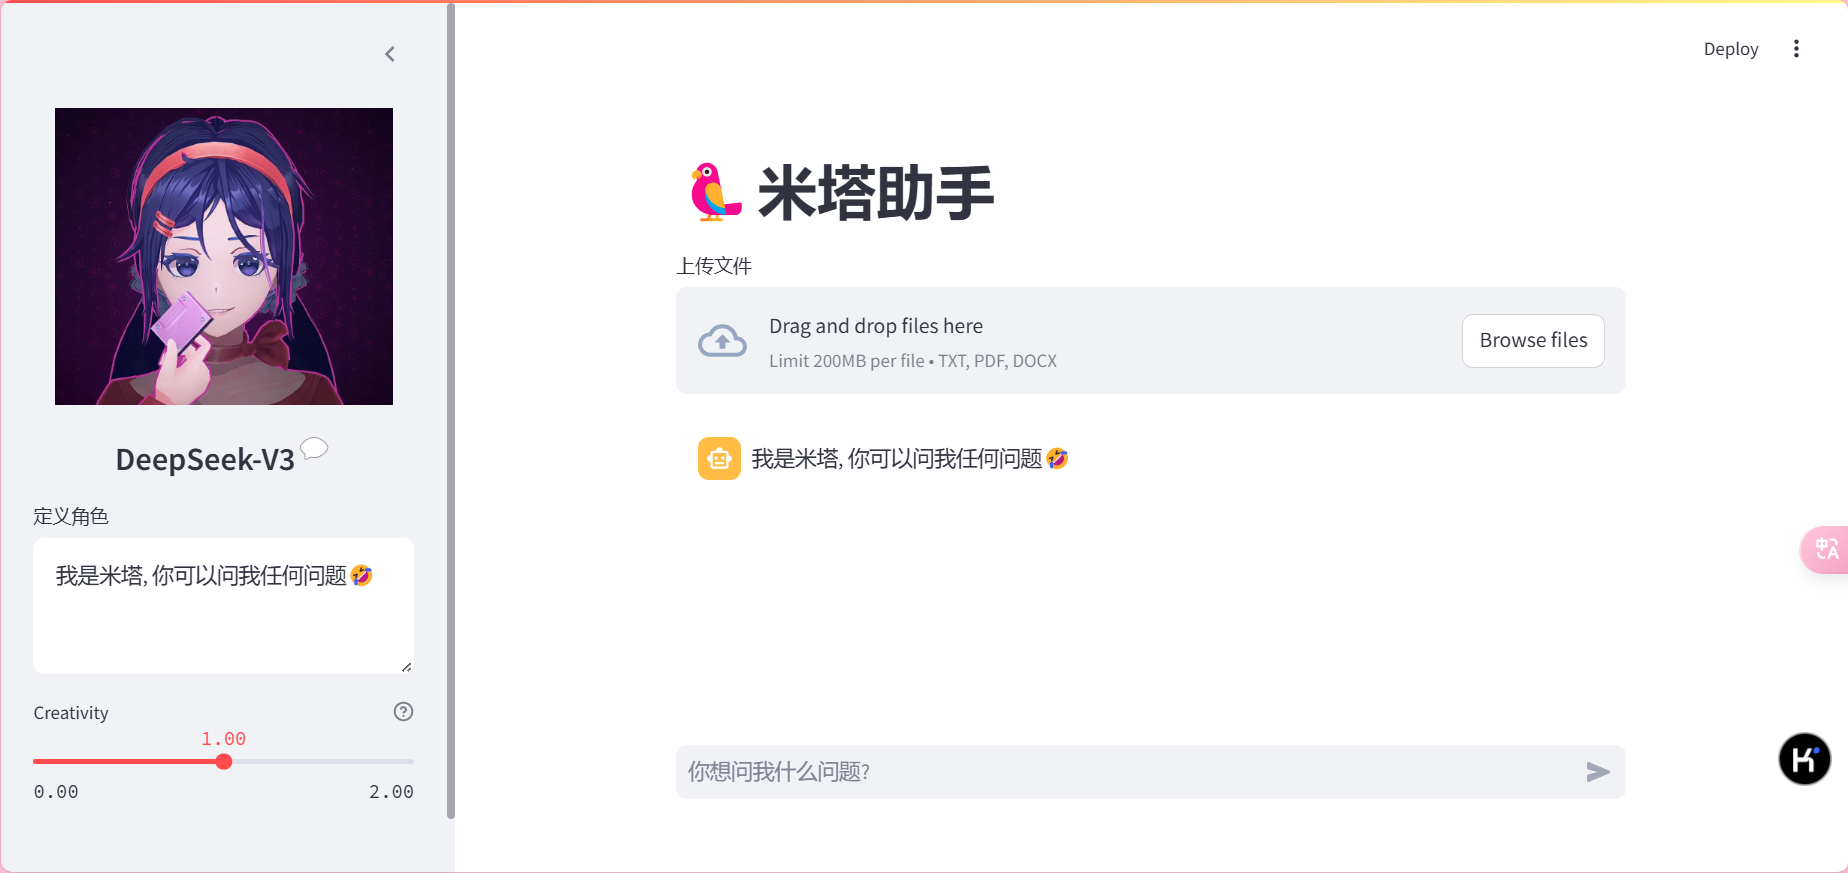
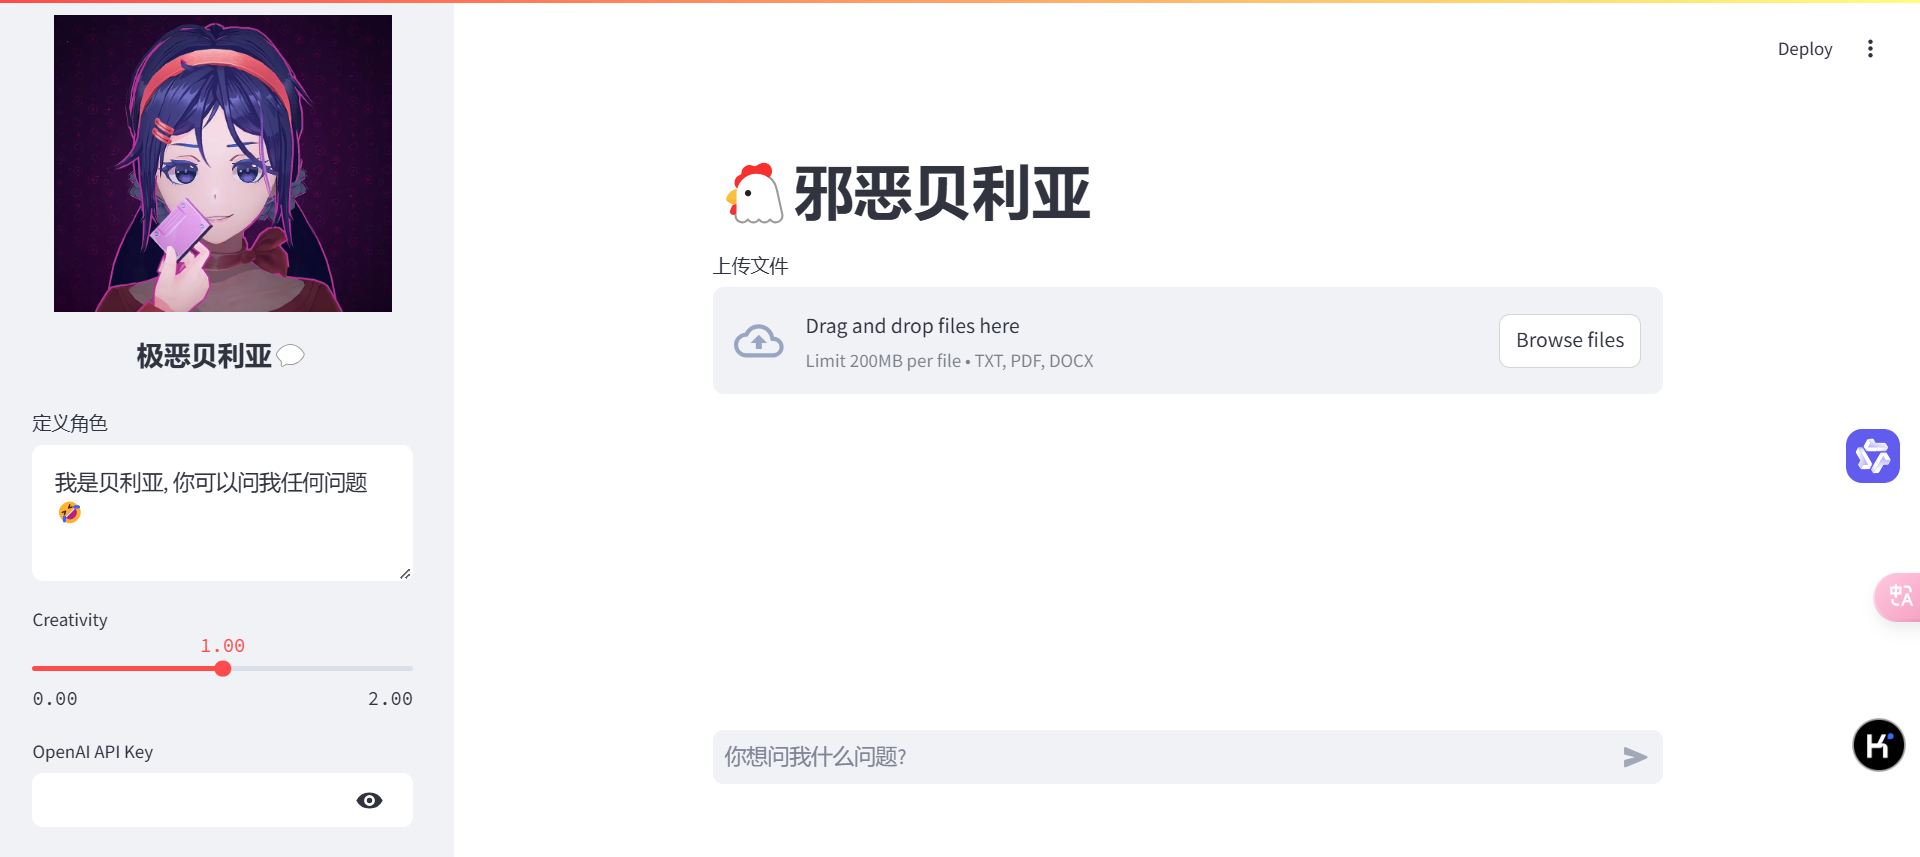
添加 .gitignore 文件，删除不再使用的配置文件和测试文件，更新主应用程序以支持 API 密钥和基础 URL 的输入

diff --git a/DeepSeek/app.py b/DeepSeek/app.py
@@ -1,29 +1,26 @@
 # app.py
 import streamlit as st
-from config_reader import read_config
 from file_processor import process_file
 from chat_stream import chat_stream
 from chat_history_manager import add_message_to_history
 from openai import OpenAI
-# 读取配置文件
-config = read_config()
-api_key = config['openai']['api_key']
-base_url = config['openai']['base_url']
 
-# 侧边栏 UI 配置
+
 with st.sidebar:
-    st.markdown(f""" 
+    st.markdown(""" 
     <center>
     <img src="https://i.ibb.co/MgBss0Q/1.webp" alt="1" border="0" width="250" height="220">
-    <h1>DeepSeek-V3<sup>💬</sup></h1>
+    <h1><sup>极恶贝利亚💬</sup></h1>
     </center>""", unsafe_allow_html=True)
-    
-    system_message = st.text_area("定义角色", value="我是米塔, 你可以问我任何问题🤣")
-    temperature = st.slider("Creativity", min_value=0.0, max_value=2.0, value=1.0, step=0.1,
-                            help="The higher the value, the more creative the text will be.")
+
+    system_message = st.text_area("定义角色", value="我是贝利亚, 你可以问我任何问题🤣")
+    temperature = st.slider("Creativity", min_value=0.0, max_value=2.0, value=1.0, step=0.1)
+    api_key = st.sidebar.text_input('OpenAI API Key', type='password')
+    base_url = st.sidebar.text_input('OpenAI Base URL')
 
 # 主界面设置
-st.title("🦜米塔助手")
+st.title("🐔邪恶贝利亚")
+
 
 # 上传文件
 uploaded_files = st.file_uploader("上传文件", type=["txt", "pdf", "docx"], accept_multiple_files=True)
@@ -39,10 +36,7 @@ for file in uploaded_files:
 
 # 使用 session_state 初始化聊天记录
 if "chat_history" not in st.session_state:
-    st.session_state.chat_history = [{
-        "role": "assistant",
-        "content": "我是米塔, 你可以问我任何问题🤣"
-    }]
+    st.session_state.chat_history = []
 
 # 显示聊天记录
 for message in st.session_state.chat_history:

diff --git a/DeepSeek/chat_stream.py b/DeepSeek/chat_stream.py
@@ -1,5 +1,4 @@
 # chat_stream.py
-from openai import OpenAI
 from chat_history_manager import trim_chat_history
 
 def chat_stream(client, query, system_message=None, temperature=0.5, context=None, chat_history=None):

diff --git a/README.md b/README.md
@@ -1,22 +1,19 @@
 # 简易LLM助手项目
 
-这是一个用于聊天应用和文件处理的LLM简易项目。首次使用前务必填好config.ini文件。
+这是一个用于聊天应用和文件处理的LLM简易项目。
 
 **项目文件详细描述:**
 
-- `DeepSeek/file_processor.py`: **文件处理模块**，负责处理上传的 txt, pdf, docx 文件，提取文件内容。
 - `DeepSeek/app.py`: **主应用程序文件**，使用 Streamlit 框架构建用户界面，处理用户输入和显示聊天记录。
+- `DeepSeek/file_processor.py`: **文件处理模块**，负责处理上传的 txt, pdf, docx 文件，提取文件内容。
 - `DeepSeek/chat_history_manager.py`: **聊天历史管理模块**，负责管理聊天历史记录，添加新的消息到历史记录中。
 - `DeepSeek/chat_stream.py`: **聊天流处理模块**，负责处理与 OpenAI API 的交互，获取聊天机器人的流式响应。
-- `DeepSeek/config_reader.py`: **配置文件读取模块**，负责读取 `config.ini` 配置文件中的 API 密钥和基础 URL 等配置信息。
-- `DeepSeek/config.ini`: **配置文件**，用于配置 OpenAI格式 API 的密钥 (`api_key`) 和基础 URL (`base_url`)。
-- `DeepSeek/test.ipynb`: **测试用的 Jupyter Notebook**，包含用于测试和实验的代码。
-- `DeepSeek/token_counter.py`: **Token 计数模块**，可能用于计算文本中的 token 数量，但代码中没有直接使用，可能是预留模块。
-- `DeepSeek/imgs/`: **图片资源目录**，包含应用界面中使用的图片资源，例如 `1.webp` 和 `2.jpg`。
+- `DeepSeek/token_counter.py`: **Token 计数模块**，用于计算文本中的 token 数量。
+- `DeepSeek/imgs/`: **图片资源目录**，包含应用界面中使用的图片资源。
 
 **描述:**
 
-该项目旨在构建一个能够处理文件并提供聊天功能的应用程序。它包含了文件处理、聊天历史管理、配置读取等模块，并提供了一个测试用的 Jupyter Notebook。
+该项目旨在构建一个能够处理文件并提供聊天功能的AI应用。它包含了文件处理、聊天历史管理等模块。
 ![主界面](DeepSeek/imgs/home.png)
 **如何运行:**
 
@@ -27,8 +24,7 @@
    ```
 
 2. **配置 API 密钥:**
-   - 复制 `config.ini` 文件，并根据你的 OpenAI API 密钥和基础 URL 修改 `config.ini` 文件。
-   - 确保在 `config.ini` 文件中配置正确的 `api_key` 和 `base_url`。
+   - 在应用启动时，在侧边栏中输入你的 OpenAI API 密钥和基础 URL。
 
 3. **运行应用:**
    在项目根目录下运行以下命令启动 Streamlit 应用：
@@ -48,17 +44,9 @@ streamlit
 openai
 python-docx
 PyPDF2
+tiktoken
+...
 ```
-
-**config.ini 示例**
-
-```ini
-[openai]
-api_key=YOUR_API_KEY
-base_url=YOUR_BASE_URL
-```
-
-请将 `YOUR_API_KEY` 替换为你的 OpenAI API 密钥，`YOUR_BASE_URL` 替换为你的 API 基础 URL。
 
 **项目功能**
 
@@ -73,6 +61,7 @@ base_url=YOUR_BASE_URL
 1. **启动应用后，在侧边栏进行设置:**
    - 在 "定义角色" 文本框中输入你希望聊天机器人扮演的角色。
    - 使用 "Creativity" 滑块调整创造力参数。
+   - 输入 OpenAI API 密钥和基础 URL。
 
 2. **上传文件 (可选):**
    - 点击 "上传文件" 按钮，选择 txt, pdf, docx 格式的文件上传。
@@ -93,3 +82,17 @@ base_url=YOUR_BASE_URL
 - 配置正确的 OpenAI API 密钥和基础 URL。
 - 上传文件支持 txt, pdf, docx 格式。
 - 侧边栏可以自定义角色设定和创造力 (Temperature) 参数。
+
+**新增功能**
+
+- **聊天历史修剪:** 应用会自动修剪聊天历史记录，以确保总 token 数量不超过指定的最大值，从而优化性能。
+- **多文件处理:** 支持同时上传和处理多个文件，提取的文本内容将作为聊天机器人的上下文信息。
+- **流式响应:** 聊天机器人的回复将以流式方式显示，提供更好的用户体验。
+
+**文件结构**
+
+- `DeepSeek/token_counter.py`: **Token 计数模块**，用于计算文本中的 token 数量。
+- `DeepSeek/chat_history_manager.py`: **聊天历史管理模块**，负责修剪聊天历史记录，确保总 token 数量不超过指定的最大值。
+- `DeepSeek/chat_stream.py`: **聊天流处理模块**，负责处理与 OpenAI API 的交互，获取聊天机器人的流式响应。
+
+
